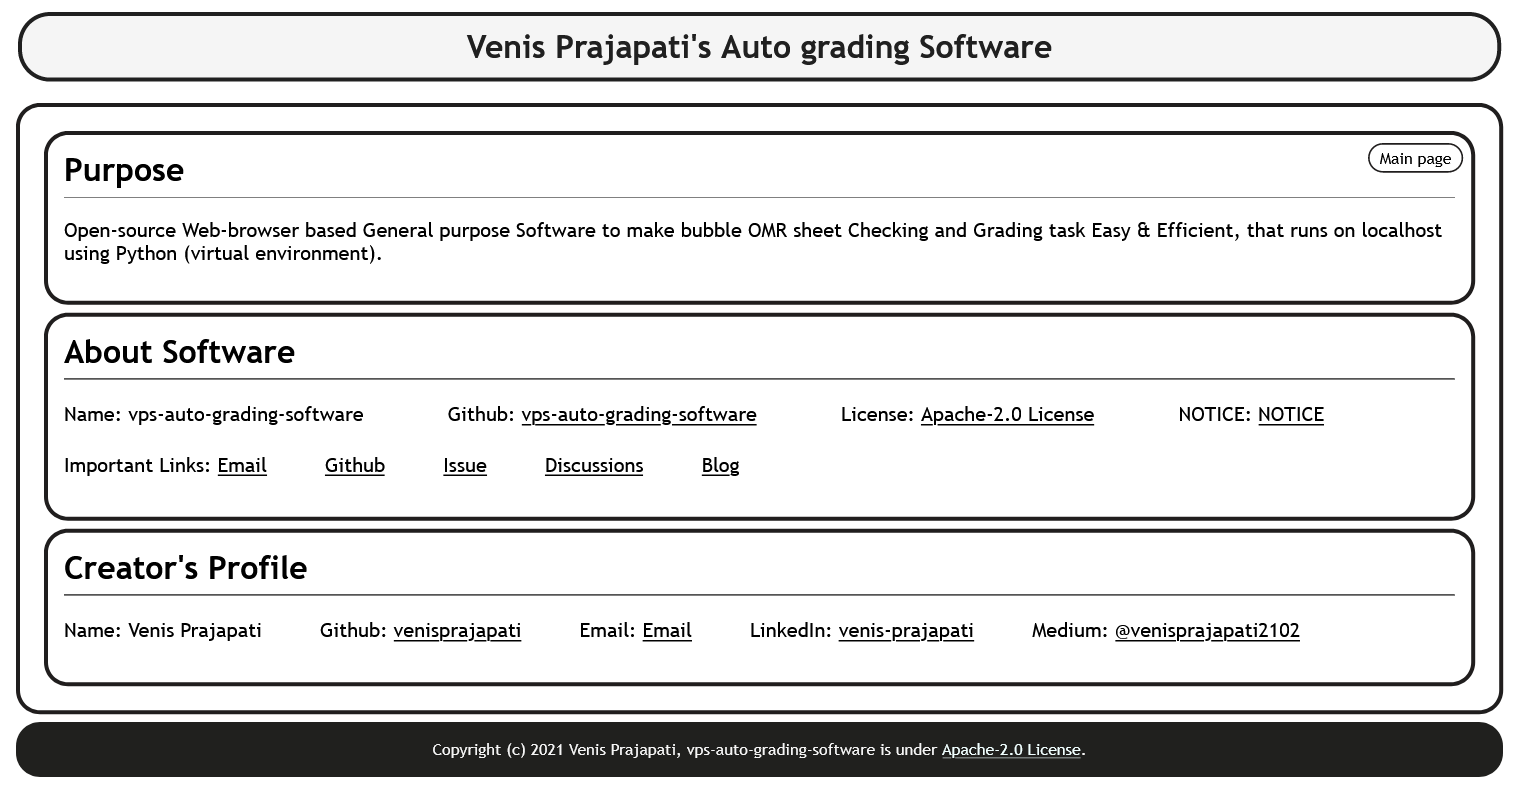
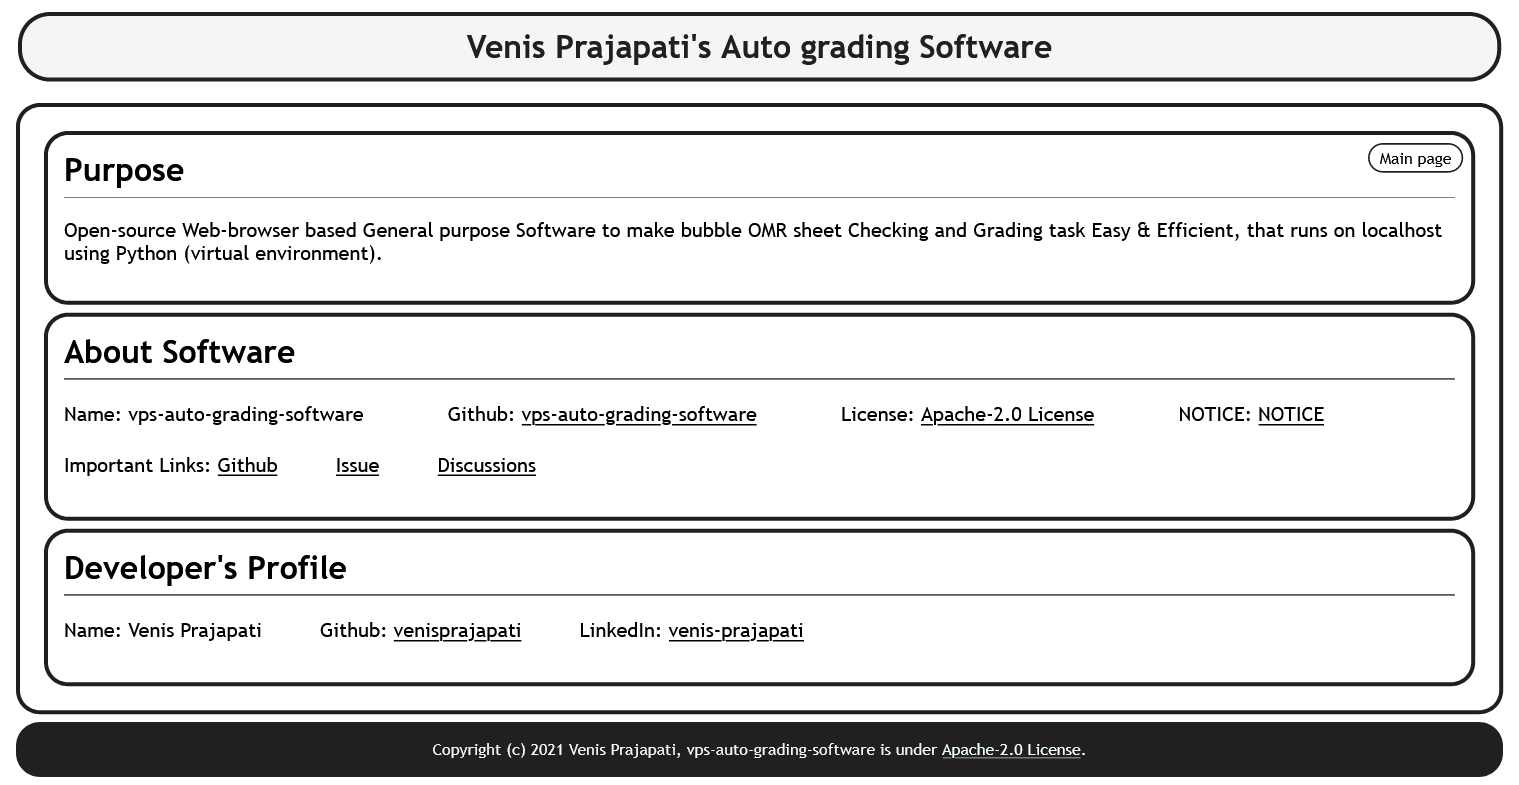
:memo: Updated README.md & :lock: Fixed vulnerability in lxml. :happy:

diff --git a/templates/info.html b/templates/info.html
@@ -61,15 +61,13 @@
                 <a href="https://github.com/venisprajapati/vps-auto-grading-software/issues">Issue</a>
                 &emsp; &emsp;
                 <a href="https://github.com/venisprajapati/vps-auto-grading-software/discussions">Discussions</a>
-                &emsp; &emsp;
-                <a href="https://medium.com/@venisprajapati2102/about-vps-auto-grading-software-5b611ffe6c74">Blog</a>
             </p>
 
         </div>
 
 
         <div id="frame">
-            <main class="main-0">Creator's Profile</main>
+            <main class="main-0">Developer's Profile</main>
 
             <hr>
 
@@ -79,8 +77,6 @@
                 Github: <a href="http://www.github.com/venisprajapati">venisprajapati</a>
                 &emsp; &emsp;
                 LinkedIn: <a href="https://www.linkedin.com/in/venis-prajapati-a12b1019b">venis-prajapati</a>
-                &emsp; &emsp;
-                Medium: <a href="https://medium.com/@venisprajapati2102">@venisprajapati2102</a>
             </p>
         </div>
 
